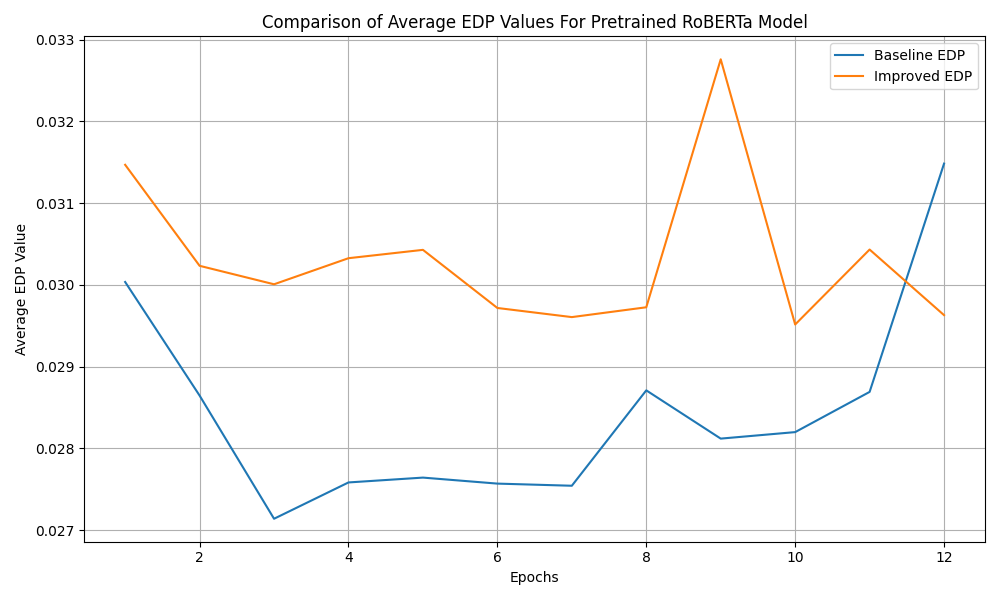
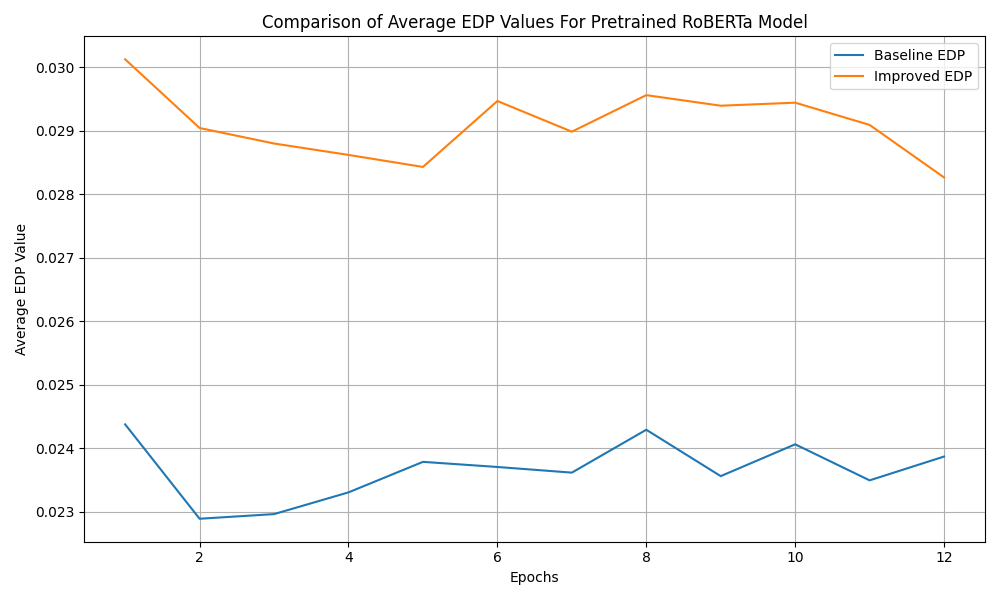
added changes roberta model

diff --git a/RoBERTa_model/plot_roberta_results.py b/RoBERTa_model/plot_roberta_results.py
@@ -3,13 +3,7 @@ from roberta_improved_edp import roberta_improved_edp
 from util import make_plot
 from datasets import load_dataset
 
-def plot_roberta_results():
-    dataset = load_dataset('ag_news', split='test[:20]') 
-    test_dataset = [item['text'] for item in dataset]
-
-    average_baseline_duration, average_layer_durations, average_edp_values = roberta_baseline(test_dataset)
-    average_layer_durations_improved, average_edp_values_improved = roberta_improved_edp(test_dataset)
-
+def plot_roberta_results(average_layer_durations, average_edp_values, average_layer_durations_improved, average_edp_values_improved):
     epochs = range(1, len(average_layer_durations) + 1)
 
     make_plot(
@@ -35,4 +29,27 @@ def plot_roberta_results():
     )
 
 if __name__ == "__main__":
-    plot_roberta_results()
+    dataset = load_dataset('ag_news', split='test[:500]') 
+    test_dataset = [item['text'] for item in dataset]
+
+    average_baseline_duration, average_layer_durations, average_edp_values = roberta_baseline(test_dataset)
+    average_layer_durations_improved, average_edp_values_improved = roberta_improved_edp(test_dataset)
+
+    layer_duration_percentange_improvements = []
+    for i, (average_layer_duration, average_layer_duration_improved) in enumerate(zip(average_layer_durations, average_layer_durations_improved)):
+        percentage_improvement = ((average_layer_duration - average_layer_duration_improved) / average_layer_duration) * 100
+        layer_duration_percentange_improvements.append(percentage_improvement)
+
+    print(f"average_layer_durations: {average_layer_durations}")
+    print(f"average_layer_durations_improved: {average_layer_durations_improved}")
+    print(f"layer_duration_percentange_improvements: {layer_duration_percentange_improvements}")
+
+    plot_roberta_results(average_layer_durations, average_edp_values, average_layer_durations_improved, average_edp_values_improved)
+
+'''
+average_layer_durations: [0.02437332 0.02288621 0.02295941 0.02330185 0.02378273 0.02370207
+ 0.023613   0.02428863 0.02355782 0.02405931 0.02349113 0.02386618]
+average_layer_durations_improved: [0.03012606 0.02904337 0.02879929 0.02861938 0.02842992 0.02946862
+ 0.02898572 0.02956137 0.02939479 0.0294427  0.02909209 0.02826433]
+layer_duration_percentange_improvements: [-23.602589132811975, -26.903335397886284, -25.43566353130553, -22.82022507755715, -19.540205664067443, -24.32932423408986, -22.75319629068286, -21.708652688916295, -24.777219940955778, -22.37550131762233, -23.842877994744615, -18.428361174526394]
+'''

diff --git a/RoBERTa_model/util.py b/RoBERTa_model/util.py
@@ -3,7 +3,7 @@ import time
 import matplotlib.pyplot as plt
 import os
 
-path = os.path.join(os.getcwd(), "RoBERTa_model")
+path = os.getcwd()
 
 def make_plot(epochs, plot_1_values, label_1, plot_2_values, label_2, title, x_label, y_label):
     plt.figure(figsize=(10, 6)) 
